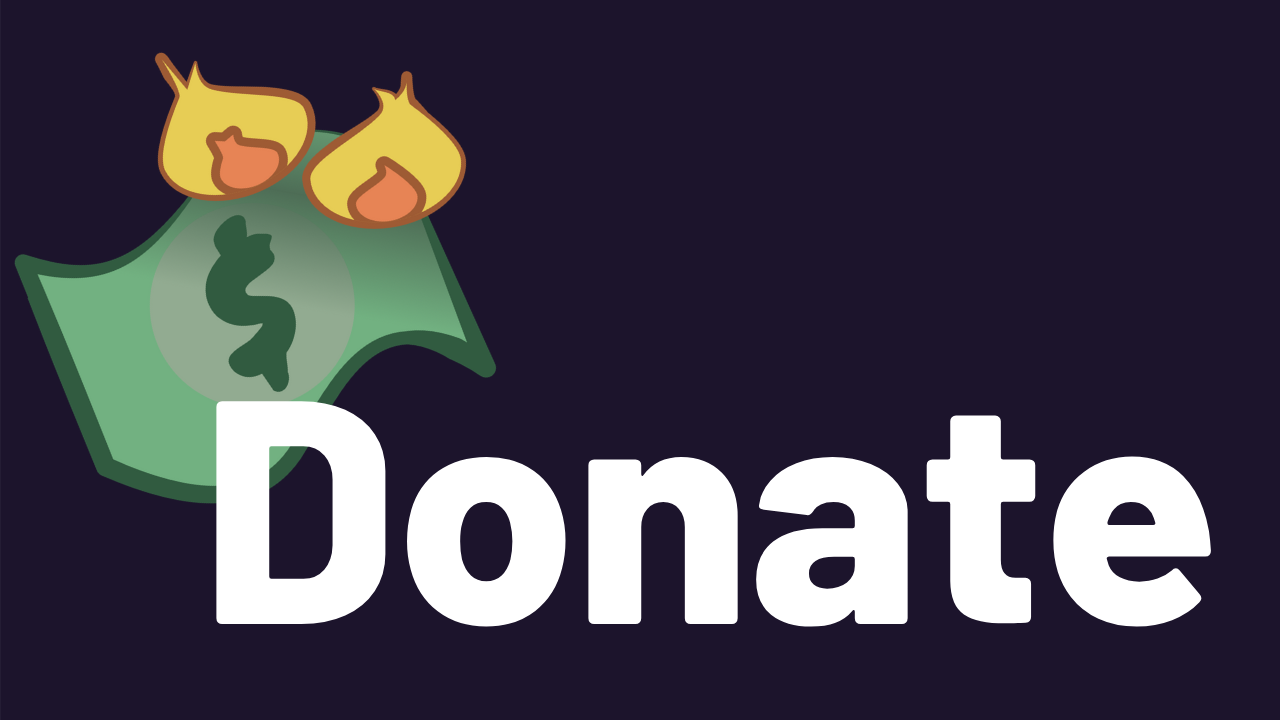
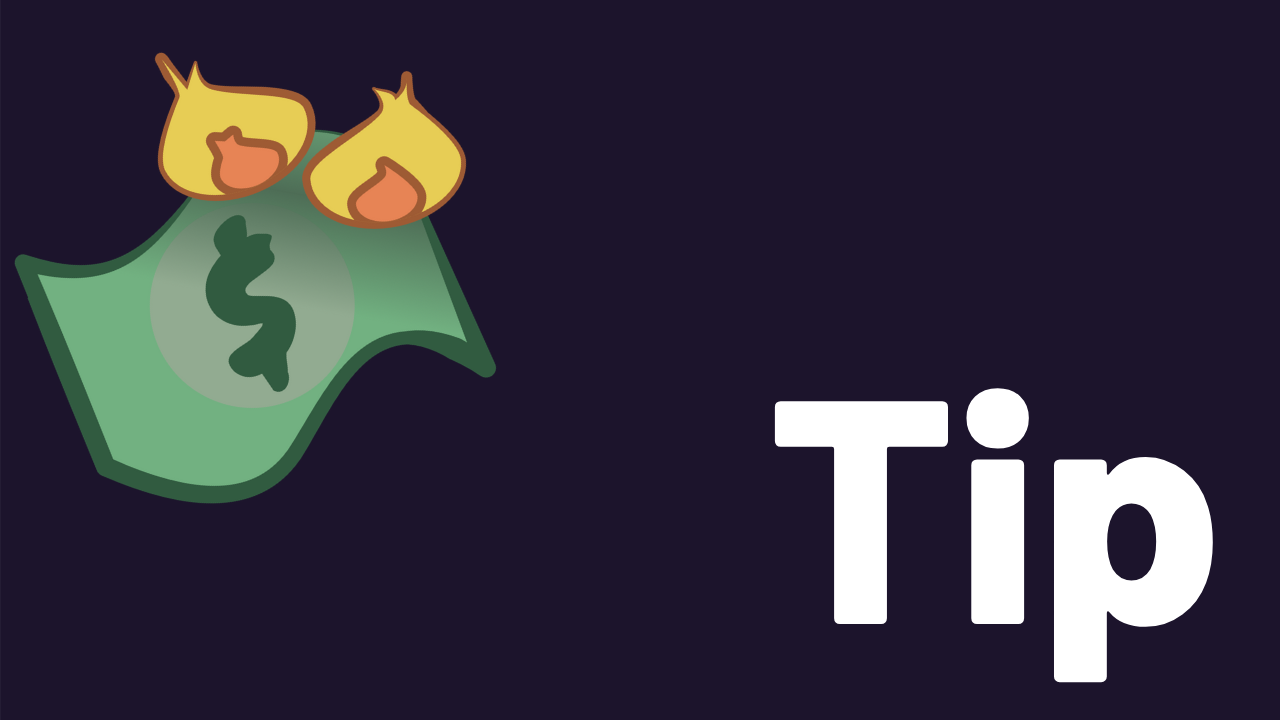
Tip change

diff --git a/src/site/page/support-the-channel.md b/src/site/page/support-the-channel.md
@@ -10,7 +10,7 @@ page_type: custom
   <article class="max-w-sm sm:max-w-1/2 px-2 pb-8 sm:pb-4">
     <a href="{{ ctas.buttons[0].button_link | safe }}" class="h-full bg-{{ theme.colors.main }}-100 dark:bg-{{ theme.colors.main }}-700 rounded overflow-hidden hover:shadow-2xl relative smooth no-underline hover:no-underline flex flex-col border-l-4 border-b-4 border-{{ theme.colors.accent }}-500" target="_blank">
       <div class="relative pb-16/9">
-        <img src="/images/card-donate.png" class="absolute h-full w-full rounded-t-r object-cover" alt="Donate through StreamElements">
+        <img src="/images/card-donate.png" class="absolute h-full w-full rounded-t-r object-cover" alt="Tip through StreamElements">
       </div>
       <span class="p-4 text-base">{{ ctas.buttons[0].button_text }}</span>
     </a>
